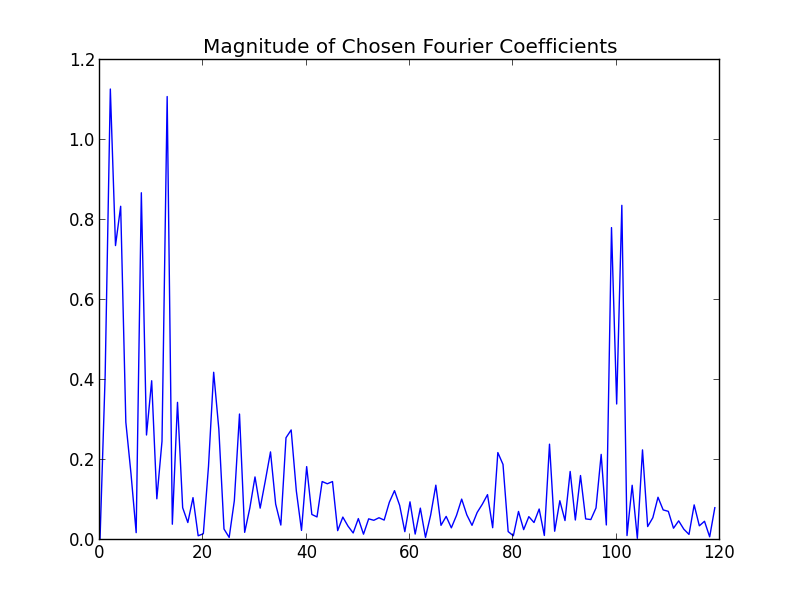
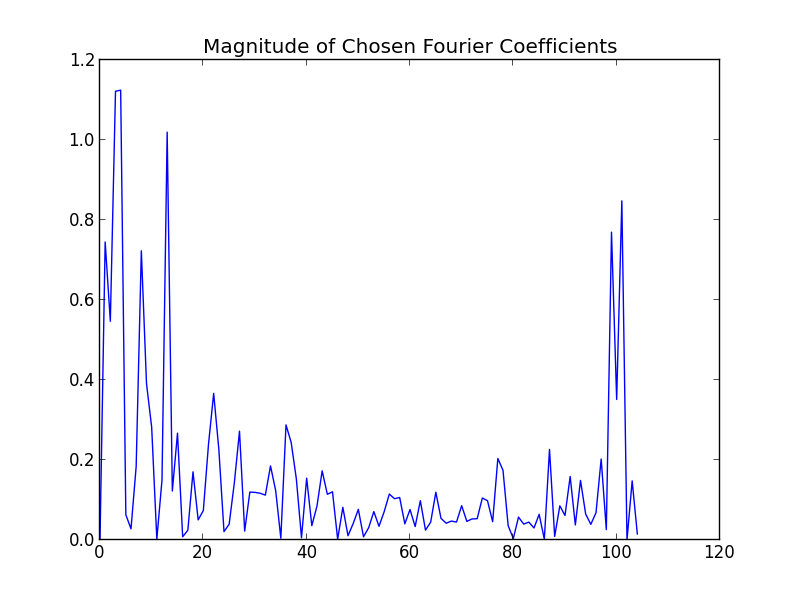
Add example

Changed region(s): [[0.125, 0.15, 0.9062, 0.9], [0.75, 0.39, 0.7812, 0.45], [0.5938, 0.75, 0.625, 0.78]]

diff --git a/scripts/fourier_smooth.py b/scripts/fourier_smooth.py
@@ -44,8 +44,9 @@ if __name__=="__main__":
     plot(data)
     title("Data with Numeric x-values")
     
+    x = arange(len(raw_x))
 #     mu = mean(data)
-    mu = data[0] + (data[-1] - data[0])/len(data)
+    mu = data[0] + (data[-1] - data[0])/(len(data) - 1)*x
     
 #     cdata = data - mu
     cdata = data - mu
@@ -72,7 +73,7 @@ if __name__=="__main__":
     title("Getting Back the Original")
     
     # Fit with sample of Fourier Coefficients
-    fit_idx = r_[0:120]
+    fit_idx = r_[0:105]
     
     figure(5)
     plot(magF[fit_idx])

diff --git a/_posts/2015-01-28-smoothing-by-fourier-series.md b/_posts/2015-01-28-smoothing-by-fourier-series.md
@@ -76,4 +76,41 @@ g(x) = \sum_{k=1}^{m}b_k\sin \left( k\frac{\pi}{l}x\right).
 
 Equation 2 is the smoothed fit to our data.
 
-*I will add a worked example, illustrating the technique shortly.*
+<del>*I will add a worked example, illustrating the technique shortly.*</del>
+## An Example
+
+We start with the following data set provided by  R.J. Hyndman [here](https://datamarket.com/data/set/22pw/monthly-lake-erie-levels-1921-1970#!ds=22pw&display=line). 
+
+![plane]({{ site.url }}/assets/fourier-smooth/data.png "Original Data")
+
+We first subtract off the linear term and ensure that the $$x$$ axis is taking numerical values.
+
+![plane]({{ site.url }}/assets/fourier-smooth/modified.png "Modified Data")
+
+
+We perform the transformation using Eq 1 and plot the magnitude of the result.
+
+![plane]({{ site.url }}/assets/fourier-smooth/mag-all.png "Magnitudes of Coefficients")
+
+Notice that the first 100 or so terms drop off very quickly and then the terms more-or-less flatten out. This is where we will cut off the series.
+
+![plane]({{ site.url }}/assets/fourier-smooth/chosen.png "Chosen Coefficients")
+
+Here we have kept 120 coefficients. The need to keep even this many (vs the 600 that we originally computed) is because our data set is not great. However, the exact number of terms is not critical. A few extra terms will not have a profound effect on the result.
+
+We truncate the series after the first 120 terms and arrive at the smoothed fit
+
+![plane]({{ site.url }}/assets/fourier-smooth/smoothed1.png "Smoothed Fit Modified")
+
+and residuals.
+
+![plane]({{ site.url }}/assets/fourier-smooth/residuals.png "Residuals")
+
+Adding back the linear term we get the smoothed fit to the original data.
+
+![plane]({{ site.url }}/assets/fourier-smooth/smoothed.png "Smoothed Fit Raw")
+
+##Additional Note
+I think it's important to mention the fact that if, after smoothing our data, we then wish to find an approximation to the derivative of the underlying process, we should **NOT** simply take the derivative of the smoothed approximation (2). Several higher order terms were dropped in (2) and the derivative is not as smooth as our original function. Therefore it is reasonable to expect that we will need to keep more terms in the Fourier series of the derivative. To put it simply: **the derivative of a good approximation is not necessarily a good approximation to the derivative**. 
+
+The derivative by definition is concerned with the immediate vicinity of our data points. So a better solution to the problem is to use a method similar to the one outlined in my [previous post]{% post_url 2014-01-01-differentiation-by-integration-part-2 %} and just use the $$k$$ closest neighbors to each data point to compute an approximation to the derivative. 
